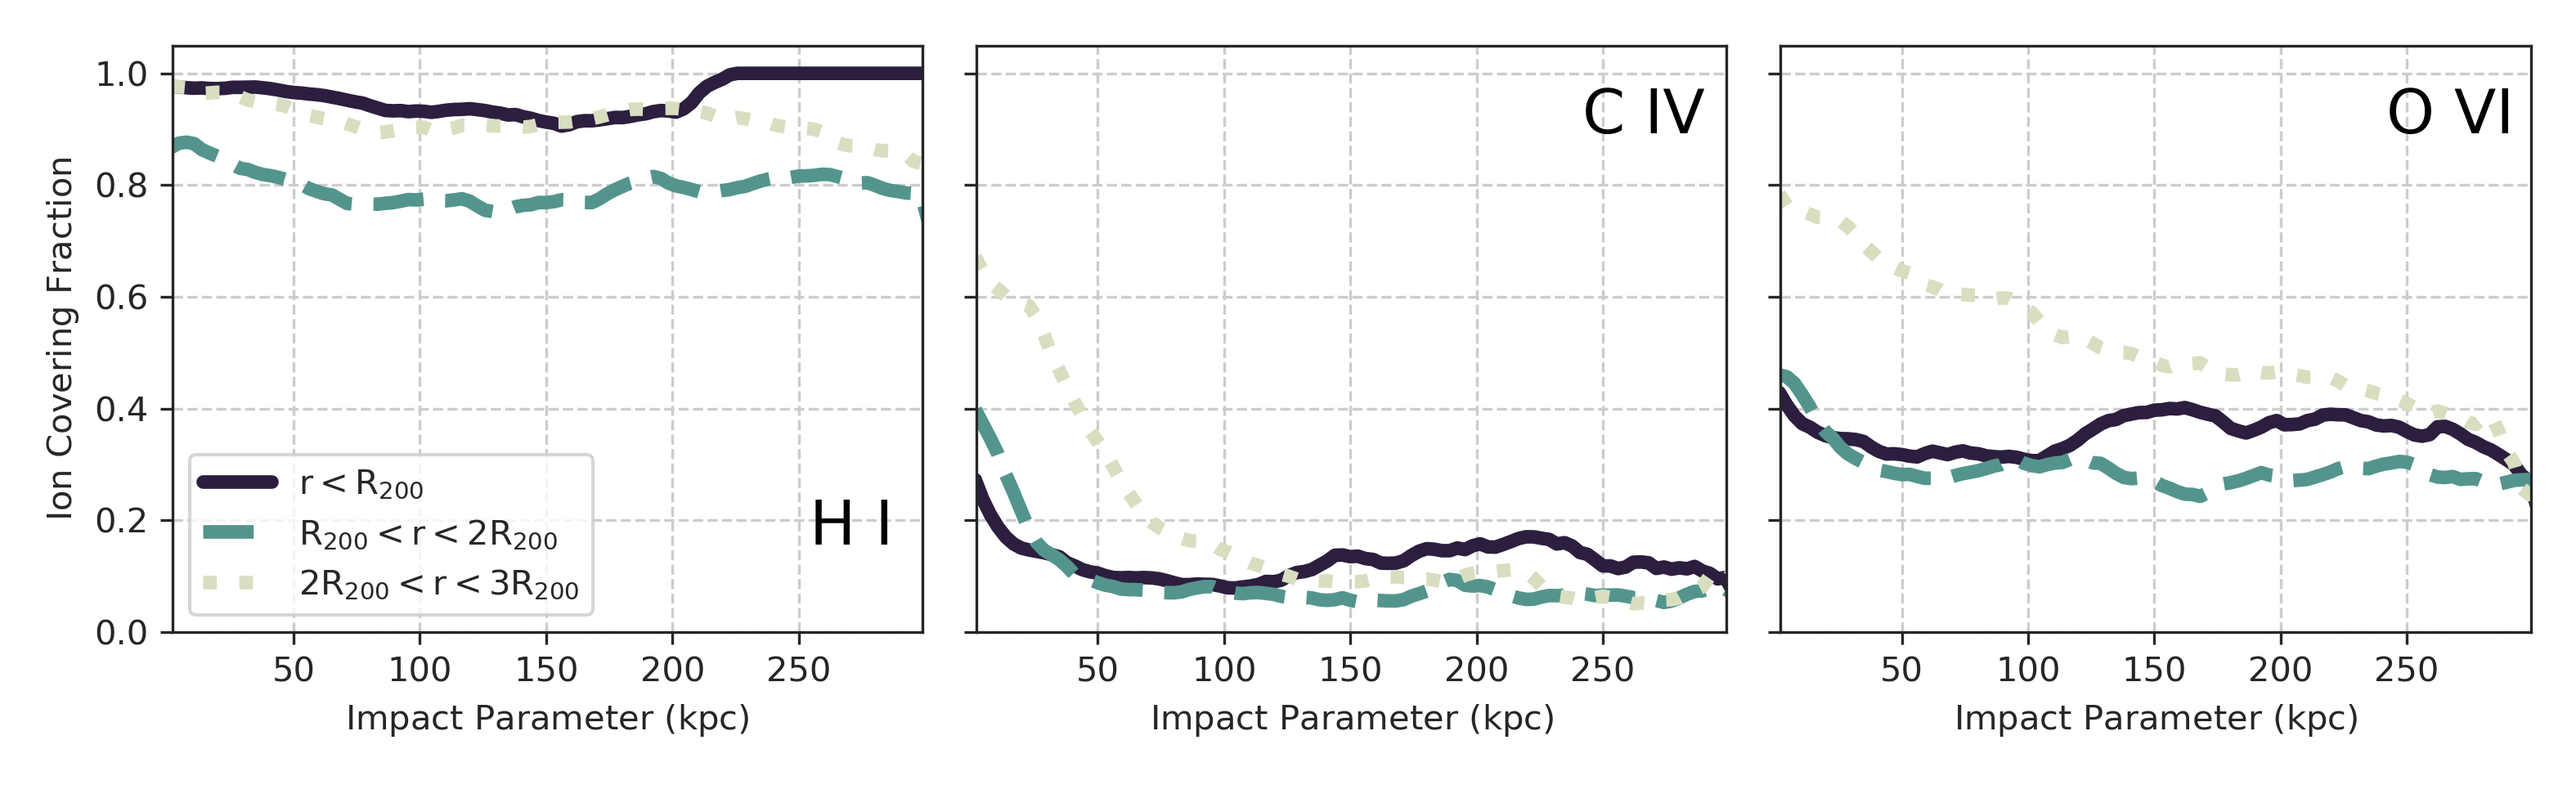
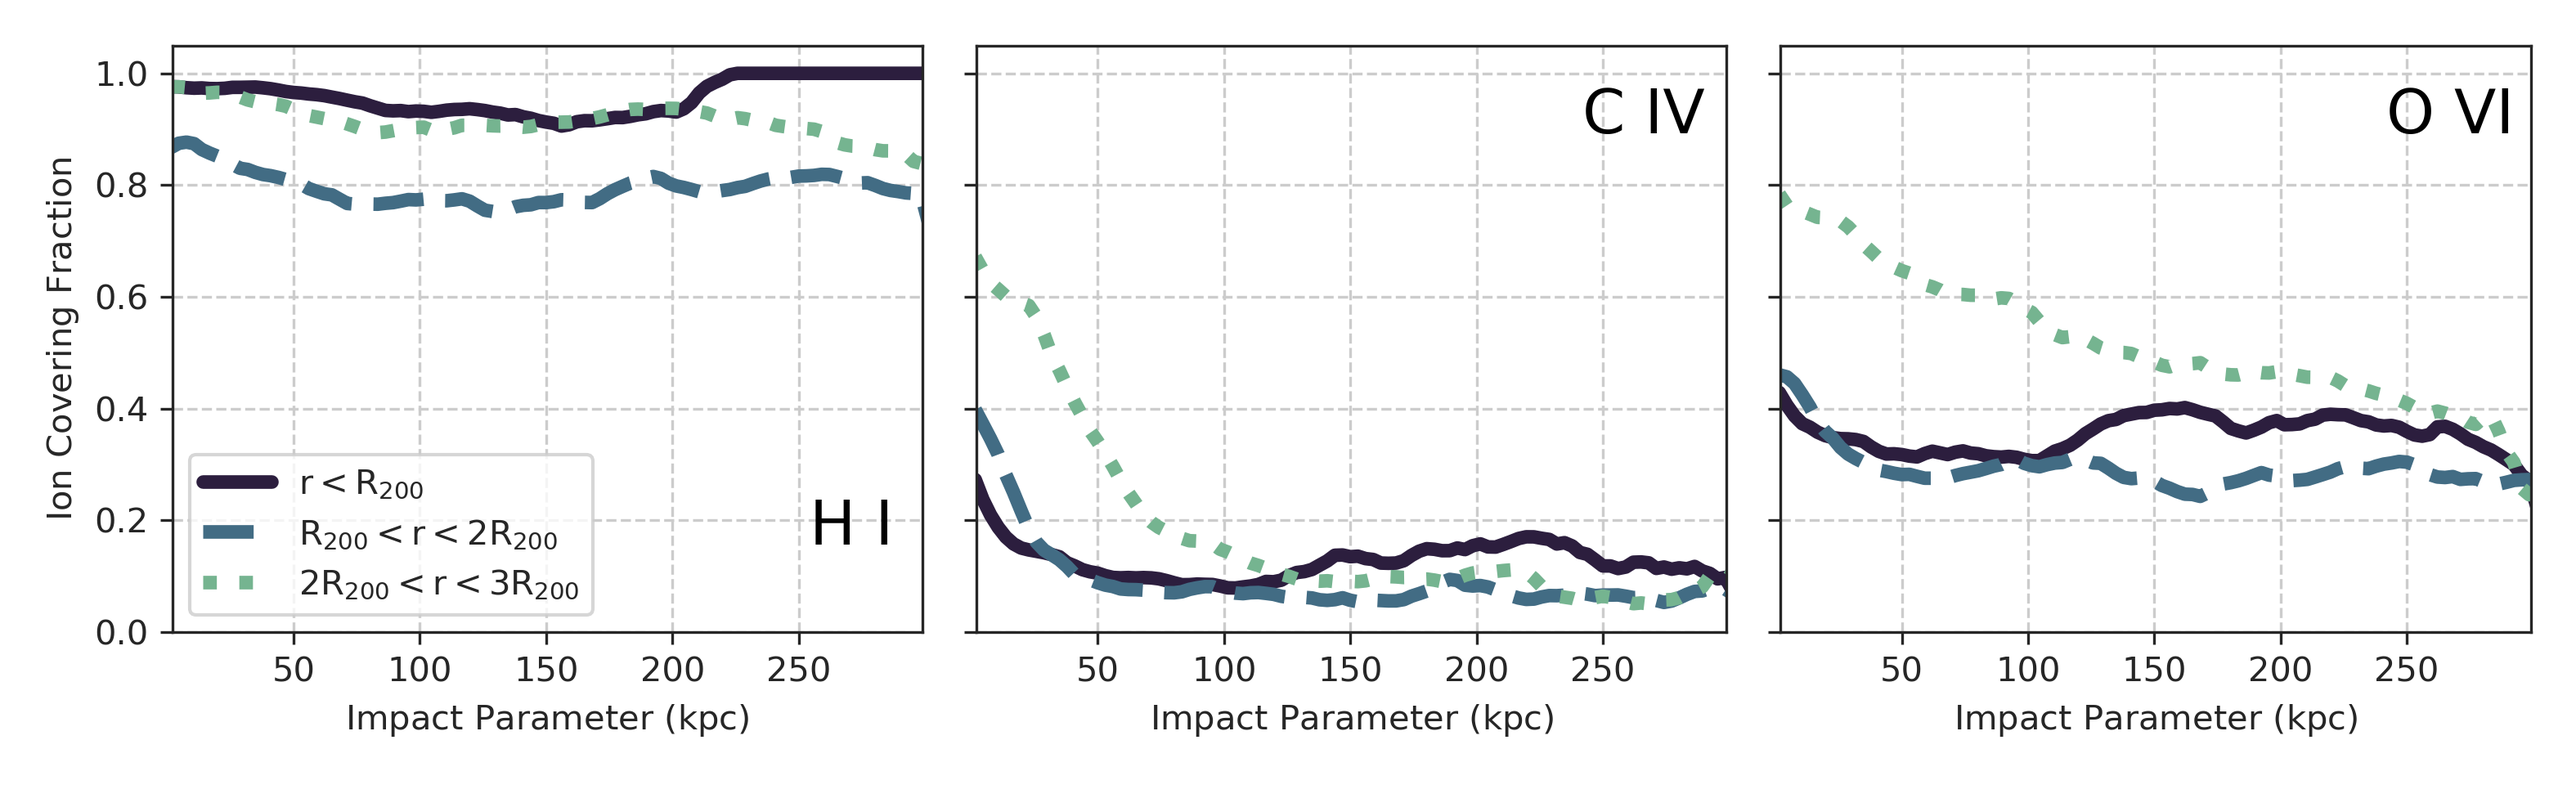
wah

diff --git a/plot_multipanel_halo_ion.py b/plot_multipanel_halo_ion.py
@@ -85,7 +85,7 @@ def multipanel_ion_plot(sim, output, ion_list, plot_type, bin_type, do_colormesh
 
         linestyles = ['solid', 'dashed', 'dashdot', 'dotted']
         linestyles = ['solid', 'dashed', 'dotted']
-        palette = sns.cubehelix_palette(3, start=.5, rot=-.75, reverse = True)
+        palette = sns.cubehelix_palette(4, start=.5, rot=-.75, reverse = True)
         colors = [palette[0], palette[1], palette[2]]
 
 
